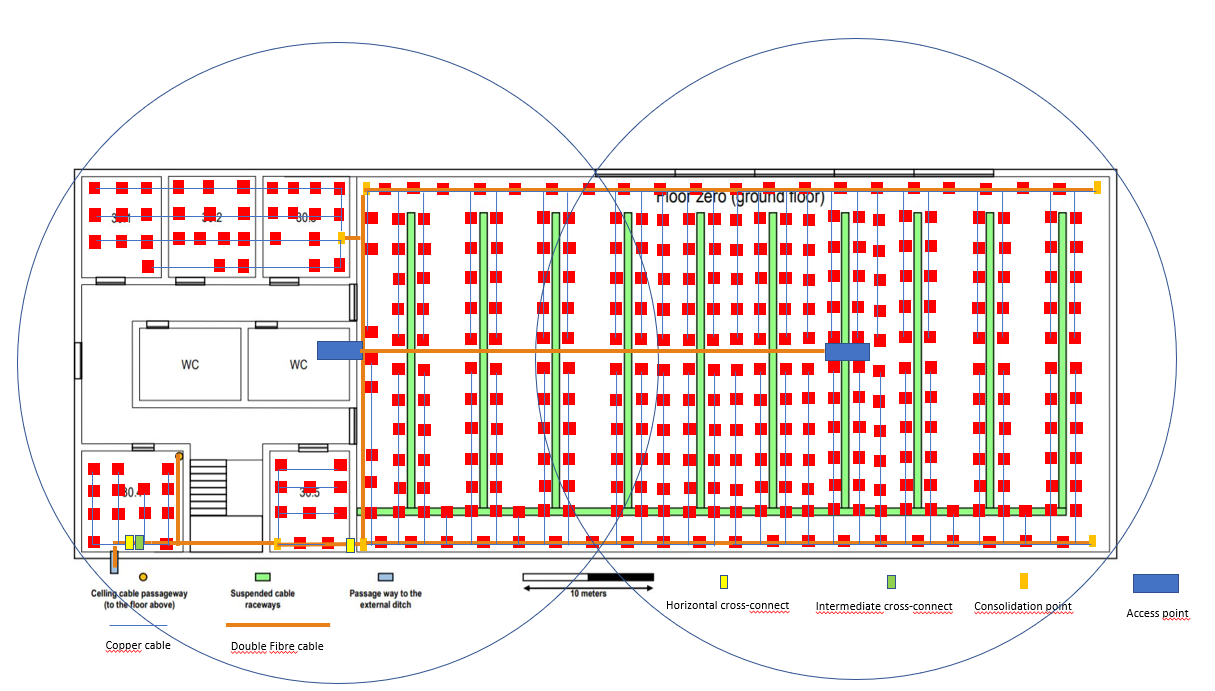
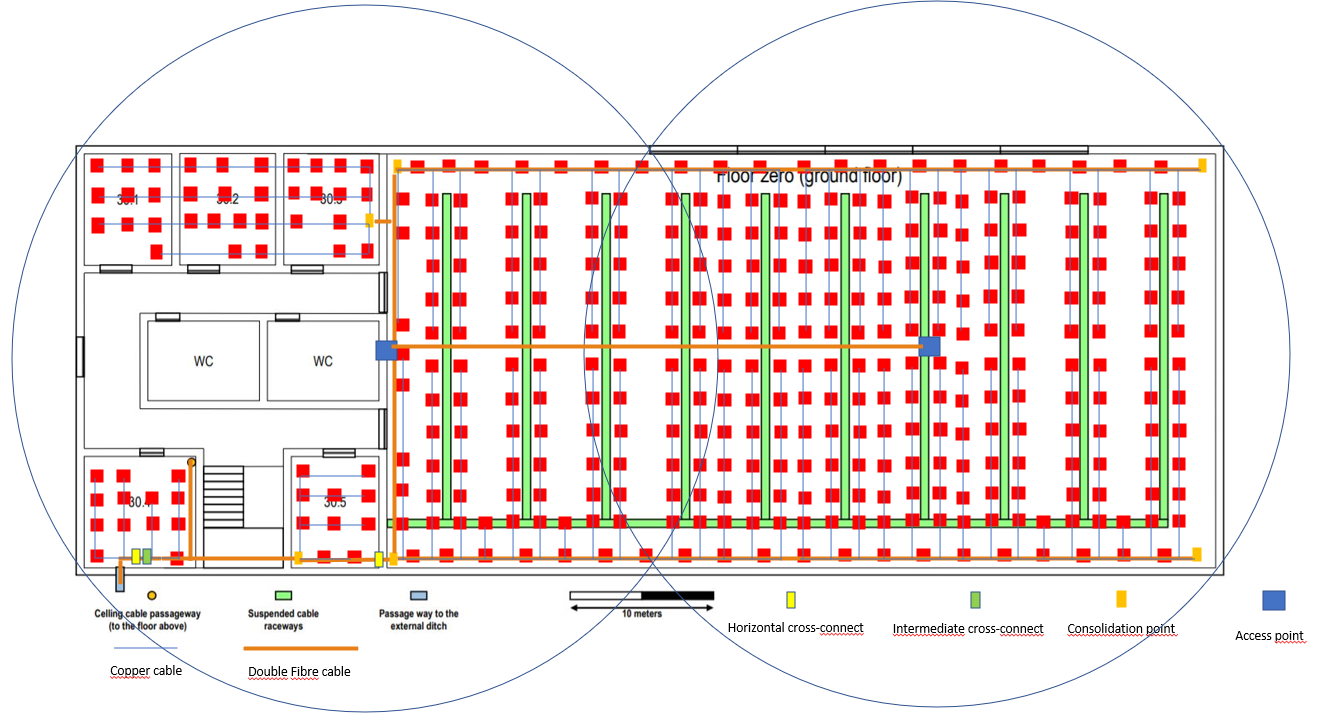
Correções

diff --git a/doc/sprint1/1191098/README.md b/doc/sprint1/1191098/README.md
@@ -34,12 +34,14 @@ Como a sala 30.5 tem 47,531 m² de área, são necessários 10 outlets que foram
 Nesta sala foi colocado um CP, um patch panel de 24 portas, com 1U de tamanho, e um switch de 24 portas, com 1U de tamanho. Será portanto utilizado um gabinete de 6U.
 
 Em relação à área do lado direito, esta zona tem 1558,483 m² de área. Assim, são necessários 312 outlets para cobrir esta área. Foi colocado um HC no limite inferior esquerdo desta sala e 4 CP, cada um responsável por um quarto da sala. Assim conseguiu-se cumprir a regra de que um cabo de cobre não pode ter mais de 90 metros de comprimento. 
-No HP foi colocado um patch panel de 24 portas e um switch de 24 portas, para a ligação aos CP. Apesar de apenas serem utilizadas 10 portas (2 para cada CP), esta escolha permite a utilização de mais portas, se assim for pretendido no futuro. Em cada CP foi colocado um patch panel de 144 portas, com 6U de tamanho, e um switch de 144 portas, com 6U de tamanho. Será portanto utilizado um gabinete de 24U. 
+No HC foi colocado um patch panel de 24 portas e um switch de 24 portas, para a ligação aos CP. Apesar de apenas serem utilizadas 10 portas (2 para cada CP), esta escolha permite a utilização de mais portas, se assim for pretendido no futuro. Em cada CP foi colocado um patch panel de 144 portas, com 6U de tamanho, e um switch de 144 portas, com 6U de tamanho. Será portanto utilizado um gabinete de 24U. 
 
-Para além dos outlets, como podemos observar na imagem acima representada foram instalados 2 AP, de 50 metros diâmetro, de forma a que exista cobertura WiFi em toda a área do piso.
+Para além dos outlets, como podemos observar na imagem acima representada foram instalados 2 AP, de 50 metros diâmetro, de forma a que exista cobertura WiFi em toda a área do piso. Cada um dos AP's está sintonizado num canal diferente de forma a evitar conflitos entre ambos.
 
 #### Inventário ####
 * 1 IC
+    * 1 Patch Panel de 8 portas
+    * 1 Switch de 8 portas
 * 2 HC
     * 2 Patch Panel de 24 portas
     * 2 Switchs de 24 portas
@@ -93,7 +95,7 @@ Cada um destes 10 outlets está ligado ao HC instalado na sala 31.4.
 Como a sala 31.6 tem 33,335 m² de área, são necessários 8 outlets que foram distribuídos neste espaço tendo em conta que tem que existir sempre um outlet a menos de três metros de distância.
 Nesta sala foi ainda colocado um CP, para estabelecer ligação com os outlets das salas 31.3 e 31.6. Foi também colocado um patch panel de 48 portas, com 2U de tamanho, e um switch de 48 portas, com 2U de tamanho. Será portanto utilizado um gabinete de 12U.
 
-Para além dos outlets, como podemos observar na imagem acima representada foram instalados 2 AP, de 50 metros diâmetro, de forma a que exista cobertura WiFi em toda a área do piso.
+Para além dos outlets, como podemos observar na imagem acima representada foram instalados 2 AP, de 50 metros diâmetro, de forma a que exista cobertura WiFi em toda a área do piso. Cada um dos AP's está sintonizado num canal diferente de forma a evitar conflitos entre ambos.
 
 #### Inventário ####
 * 1 HC
@@ -109,3 +111,28 @@ Para além dos outlets, como podemos observar na imagem acima representada foram
 * 5 cabos de fibra
 * 94 metros de fibra
 * 68 Patch Cords (ISO8877 connectors (RJ45)) de 3 metros
+
+
+# Inventário Total #
+* 1 IC
+    * 1 Patch Panel de 8 portas
+    * 1 Switch de 8 portas
+* 3 HC
+    * 2 Patch Panel de 24 portas
+    * 2 Switchs de 24 portas
+    * 1 Patch Panel de 48 portas
+    * 1 Switch de 48 portas
+* 8 CP
+    * 1 Patch Panel de 24 portas
+    * 1 Switch
+    * 3 Patch Panel de 48 portas
+    * 3 Switch de 48 portas
+    * 4 Patch Panels de 144 portas
+    * 4 Switchs de 144 portas
+* 4 AP
+* 436 Outlets
+* 436 cabos de cobre CAT6A
+* 7570,91 metros de cabo de cobre CAT6A
+* 15 cabos de fibra
+* 487,94 metros de cabos de fibra
+* 436 Patch Cords (ISO8877 connectors (RJ45)) de 3 metros
